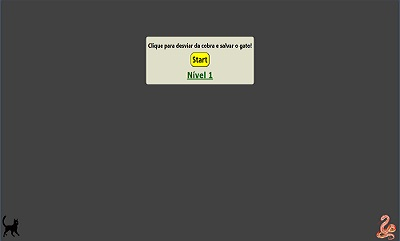
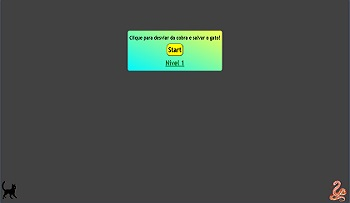
gradient bg att

Changed region(s): [[0.3429, 0.1478, 0.6571, 0.3547], [0.9429, 0.8867, 1.0, 1.0], [0.0, 0.9458, 0.0571, 0.9754]]

diff --git a/jumpgame/jumpstyle.css b/jumpgame/jumpstyle.css
@@ -6,13 +6,19 @@
   padding: 0px;
 }
 
+:root {
+  --primary-color: rgb(65, 65, 65);
+  --primary-font: "Trebuchet MS", "Lucida Sans Unicode", "Lucida Grande",
+    "Lucida Sans", Arial, sans-serif;
+}
+
 body {
   width: 100vw;
   height: 100vh;
   display: flex;
   justify-content: center;
   align-items: center;
-  background-color: rgb(65, 65, 65);
+  background-color: var(--primary-color);
   overflow: hidden;
 }
 
@@ -23,10 +29,14 @@ section {
   flex-direction: column;
   justify-content: space-evenly;
   align-items: center;
-  background-color: rgba(245, 245, 220, 0.877);
+  background-image: linear-gradient(
+    to top right,
+    rgb(0, 247, 255),
+    rgb(243, 255, 82)
+  );
   border-radius: 10px;
+  border: 2px solid black;
   padding: 10px;
-  border: 1px solid black;
   height: 20vh;
 }
 
@@ -36,27 +46,27 @@ button {
   border-radius: 20px;
   margin: 5px;
   cursor: pointer;
-  font-family: "Trebuchet MS", "Lucida Sans Unicode", "Lucida Grande",
-    "Lucida Sans", Arial, sans-serif;
+  font-family: var(--primary-font);
   font-size: 2em;
   font-weight: 600;
 }
 
 button:hover {
-  background-color: yellowgreen;
-  transition: 0.2s ease;
+  background-color: greenyellow;
+  transition: 0.22s ease;
 }
 
 h1 {
-  font-family: "Segoe UI", Tahoma, Geneva, Verdana, sans-serif;
+  font-family: var(--primary-font);
   font-weight: 700;
+  color: black;
 }
 
 h2 {
-  font-family: Verdana, Geneva, Tahoma, sans-serif;
+  font-family: var(--primary-font);
   color: darkgreen;
   font-size: 2em;
-  font-weight: 700;
+  font-weight: 900;
   text-decoration: underline;
 }
 
@@ -135,16 +145,19 @@ main {
   position: absolute;
   top: 15%;
   font-size: 4em;
-  background-color: rgba(245, 245, 220, 0.87);
-  border: 1px solid black;
+  background-image: linear-gradient(
+    to top right,
+    rgb(0, 247, 255),
+    rgb(243, 255, 82)
+  );
+  border: 2px solid black;
   padding: 35px;
   border-radius: 10px;
   height: 300px;
   justify-content: space-evenly;
   align-items: center;
   flex-direction: column;
-  font-family: "Trebuchet MS", "Lucida Sans Unicode", "Lucida Grande",
-    "Lucida Sans", Arial, sans-serif;
+  font-family: var(--primary-font);
 }
 
 #restart {
@@ -156,9 +169,9 @@ main {
 }
 
 #restart:hover {
-  background-color: yellowgreen;
+  background-color: greenyellow;
   cursor: pointer;
-  transition: 0.2s ease;
+  transition: 0.22s ease;
 }
 
 #winner {
@@ -166,13 +179,16 @@ main {
   position: absolute;
   top: 15%;
   font-size: 2em;
-  background-color: rgba(245, 245, 220, 0.822);
-  border: 1px solid black;
+  background-image: linear-gradient(
+    to top right,
+    rgb(0, 247, 255),
+    rgb(243, 255, 82)
+  );
+  border: 2px solid black;
   padding: 35px;
   border-radius: 50px;
-  font-family: "Trebuchet MS", "Lucida Sans Unicode", "Lucida Grande",
-    "Lucida Sans", Arial, sans-serif;
-  color: darkgreen;
+  font-family: var(--primary-font);
+  color: black;
   justify-content: center;
   align-items: center;
 }

diff --git a/jumpgame/scriptjump.js b/jumpgame/scriptjump.js
@@ -41,7 +41,7 @@ startButton.addEventListener("click", () => {
     snake.classList.remove("snakemovefaster");
     snake.classList.add("snakemoveevenfaster");
     level.innerText = "Nível 3";
-    level.style.color = "darkorange";
+    level.style.color = "brown";
   }
   setTimeout(run3, 45000);
   function run3() {
